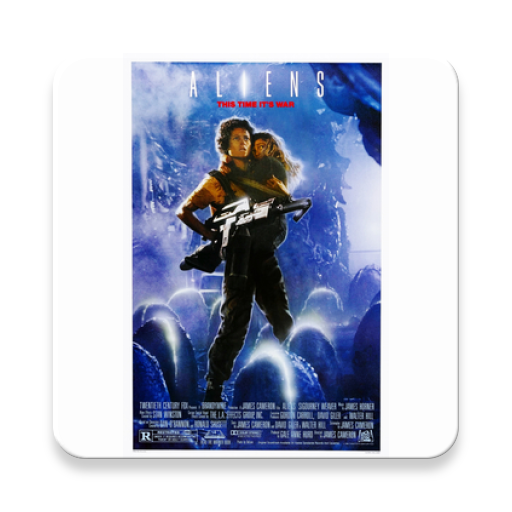
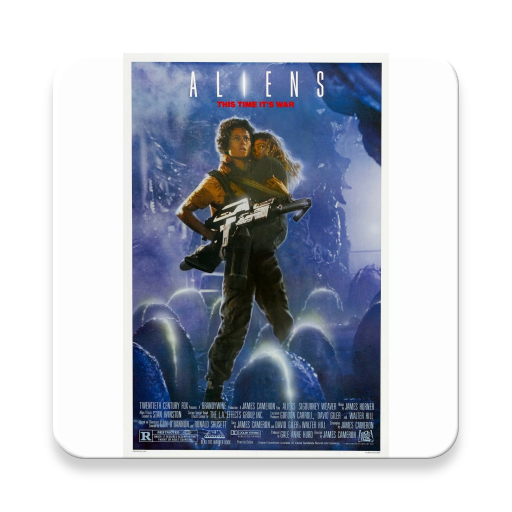
Fixed movie details activity look

Changed region(s): [[0.25, 0.0938, 0.75, 0.9062]]

diff --git a/app/src/main/java/cybulski/tomasz/tomaszcybulskilab3/Activities/MainActivity.kt b/app/src/main/java/cybulski/tomasz/tomaszcybulskilab3/Activities/MainActivity.kt
@@ -65,37 +65,37 @@ class MainActivity : AppCompatActivity() {
 
     private fun prepareMovieData(): Unit{
         moviesList.add(Movie("Mad Max: Fury Road", "Action & Adventure", "2015",
-                R.mipmap.ic_mad_max, getString(R.string.mad_max_fury_road_description)))
-        moviesList.add(Movie("Inside Out", "Animation, Kids & Family", "2015",
-                R.mipmap.ic_inside_out, getString(R.string.inside_out_description)))
-        moviesList.add(Movie("Star Wars: Episode VII - The Force Awakens", "Action",
-                "2015", R.mipmap.ic_star_wars, getString(R.string.star_wars_description)))
+                R.drawable.madmax, getString(R.string.mad_max_fury_road_description)))
+        //moviesList.add(Movie("Inside Out", "Animation, Kids & Family", "2015",
+        //        R.drawable.insideout, getString(R.string.inside_out_description)))
+        moviesList.add(Movie("Star Wars: Episode VII - The Force Awakens", "Action", "2015",
+                R.drawable.starwars, getString(R.string.star_wars_description)))
         moviesList.add(Movie("Shaun the Sheep", "Animation", "2015",
-                R.mipmap.ic_shaun, getString(R.string.shaun_the_ship_description)))
-        moviesList.add(Movie("The Martian", "Science Fiction & Fantasy", "2015",
-                R.mipmap.ic_martian, getString(R.string.the_martian_description)))
-        moviesList.add(Movie("Mission: Impossible Rogue Nation", "Action", "2015",
-                R.mipmap.ic_mission_impossible, getString(R.string.mission_impossible_description)))
+                R.drawable.shaun, getString(R.string.shaun_the_ship_description)))
+        //moviesList.add(Movie("The Martian", "Science Fiction & Fantasy", "2015",
+        //        R.drawable.martian, getString(R.string.the_martian_description)))
+        //moviesList.add(Movie("Mission: Impossible Rogue Nation", "Action", "2015",
+         //       R.drawable.missionimpossible, getString(R.string.mission_impossible_description)))
         moviesList.add(Movie("Up", "Animation", "2009",
-                R.mipmap.ic_up, getString(R.string.up_description)))
-        moviesList.add(Movie("Star Trek", "Science Fiction", "2009",
-                R.mipmap.ic_star_trek, getString(R.string.star_trek_description)))
-        moviesList.add(Movie("The LEGO Movie", "Animation", "2014",
-                R.mipmap.ic_lego, getString(R.string.the_lego_movie_description)))
-        moviesList.add(Movie("Iron Man", "Action & Adventure", "2008",
-                R.mipmap.ic_iron_man, getString(R.string.iron_man_description)))
-        moviesList.add(Movie("Aliens", "Science Fiction", "1986",
-                R.mipmap.ic_aliens, getString(R.string.aliens_description)))
-        moviesList.add(Movie("Chicken Run", "Animation", "2000",
-                R.mipmap.ic_chicken_run, getString(R.string.chicken_run_description)))
-        moviesList.add(Movie("Back to the Future", "Science Fiction", "1985",
-                R.mipmap.ic_back_to_the_future,  getString(R.string.back_to_the_future_description)))
-        moviesList.add(Movie("Raiders of the Lost Ark", "Action & Adventure", "1981",
-                R.mipmap.ic_raiders, getString(R.string.raiders_of_the_lost_ark_description)))
-        moviesList.add(Movie("Goldfinger", "Action & Adventure", "1965",
-                R.mipmap.ic_goldfinger, getString(R.string.goldfinger_description)))
-        moviesList.add(Movie("Guardians of the Galaxy", "Science Fiction & Fantasy", "2014",
-                R.mipmap.ic_guardians_of_the_galaxy, getString(R.string.guardians_of_the_galaxy_description)))
+                R.drawable.up, getString(R.string.up_description)))
+        //moviesList.add(Movie("Star Trek", "Science Fiction", "2009",
+         //       R.drawable.startrek, getString(R.string.star_trek_description)))
+        //moviesList.add(Movie("The LEGO Movie", "Animation", "2014",
+         //       R.drawable.lego, getString(R.string.the_lego_movie_description)))
+        //moviesList.add(Movie("Iron Man", "Action & Adventure", "2008",
+        //        R.drawable.ironman, getString(R.string.iron_man_description)))
+        //moviesList.add(Movie("Aliens", "Science Fiction", "1986",
+        //        R.drawable.aliens, getString(R.string.aliens_description)))
+        //moviesList.add(Movie("Chicken Run", "Animation", "2000",
+         //       R.drawable.chickenrun, getString(R.string.chicken_run_description)))
+        //moviesList.add(Movie("Back to the Future", "Science Fiction", "1985",
+        //        R.drawable.backtothefuture,  getString(R.string.back_to_the_future_description)))
+        //moviesList.add(Movie("Raiders of the Lost Ark", "Action & Adventure", "1981",
+         //       R.drawable.raidersoflostarc, getString(R.string.raiders_of_the_lost_ark_description)))
+        //moviesList.add(Movie("Goldfinger", "Action & Adventure", "1965",
+         //       R.drawable.goldfinger, getString(R.string.goldfinger_description)))
+        //moviesList.add(Movie("Guardians of the Galaxy", "Science Fiction & Fantasy", "2014",
+          //      R.drawable.guardians, getString(R.string.guardians_of_the_galaxy_description)))
 
         moviesAdapter!!.notifyDataSetChanged()
     }

diff --git a/app/src/main/java/cybulski/tomasz/tomaszcybulskilab3/RecyclerViewHelpers/MoviesAdapter.kt b/app/src/main/java/cybulski/tomasz/tomaszcybulskilab3/RecyclerViewHelpers/MoviesAdapter.kt
@@ -45,7 +45,7 @@ class MoviesAdapter(var moviesList: MutableList<Movie>): RecyclerView.Adapter<Mo
         holder.genre.text = movie.genre
         holder.year.text = movie.year
         holder.seen.visibility = if (movie.seen) View.VISIBLE else View.INVISIBLE
-        holder.picture.setImageResource(movie.pictureId)
+        holder.picture.setBackgroundResource(movie.pictureId)
     }
 
     override fun getItemCount(): Int {
